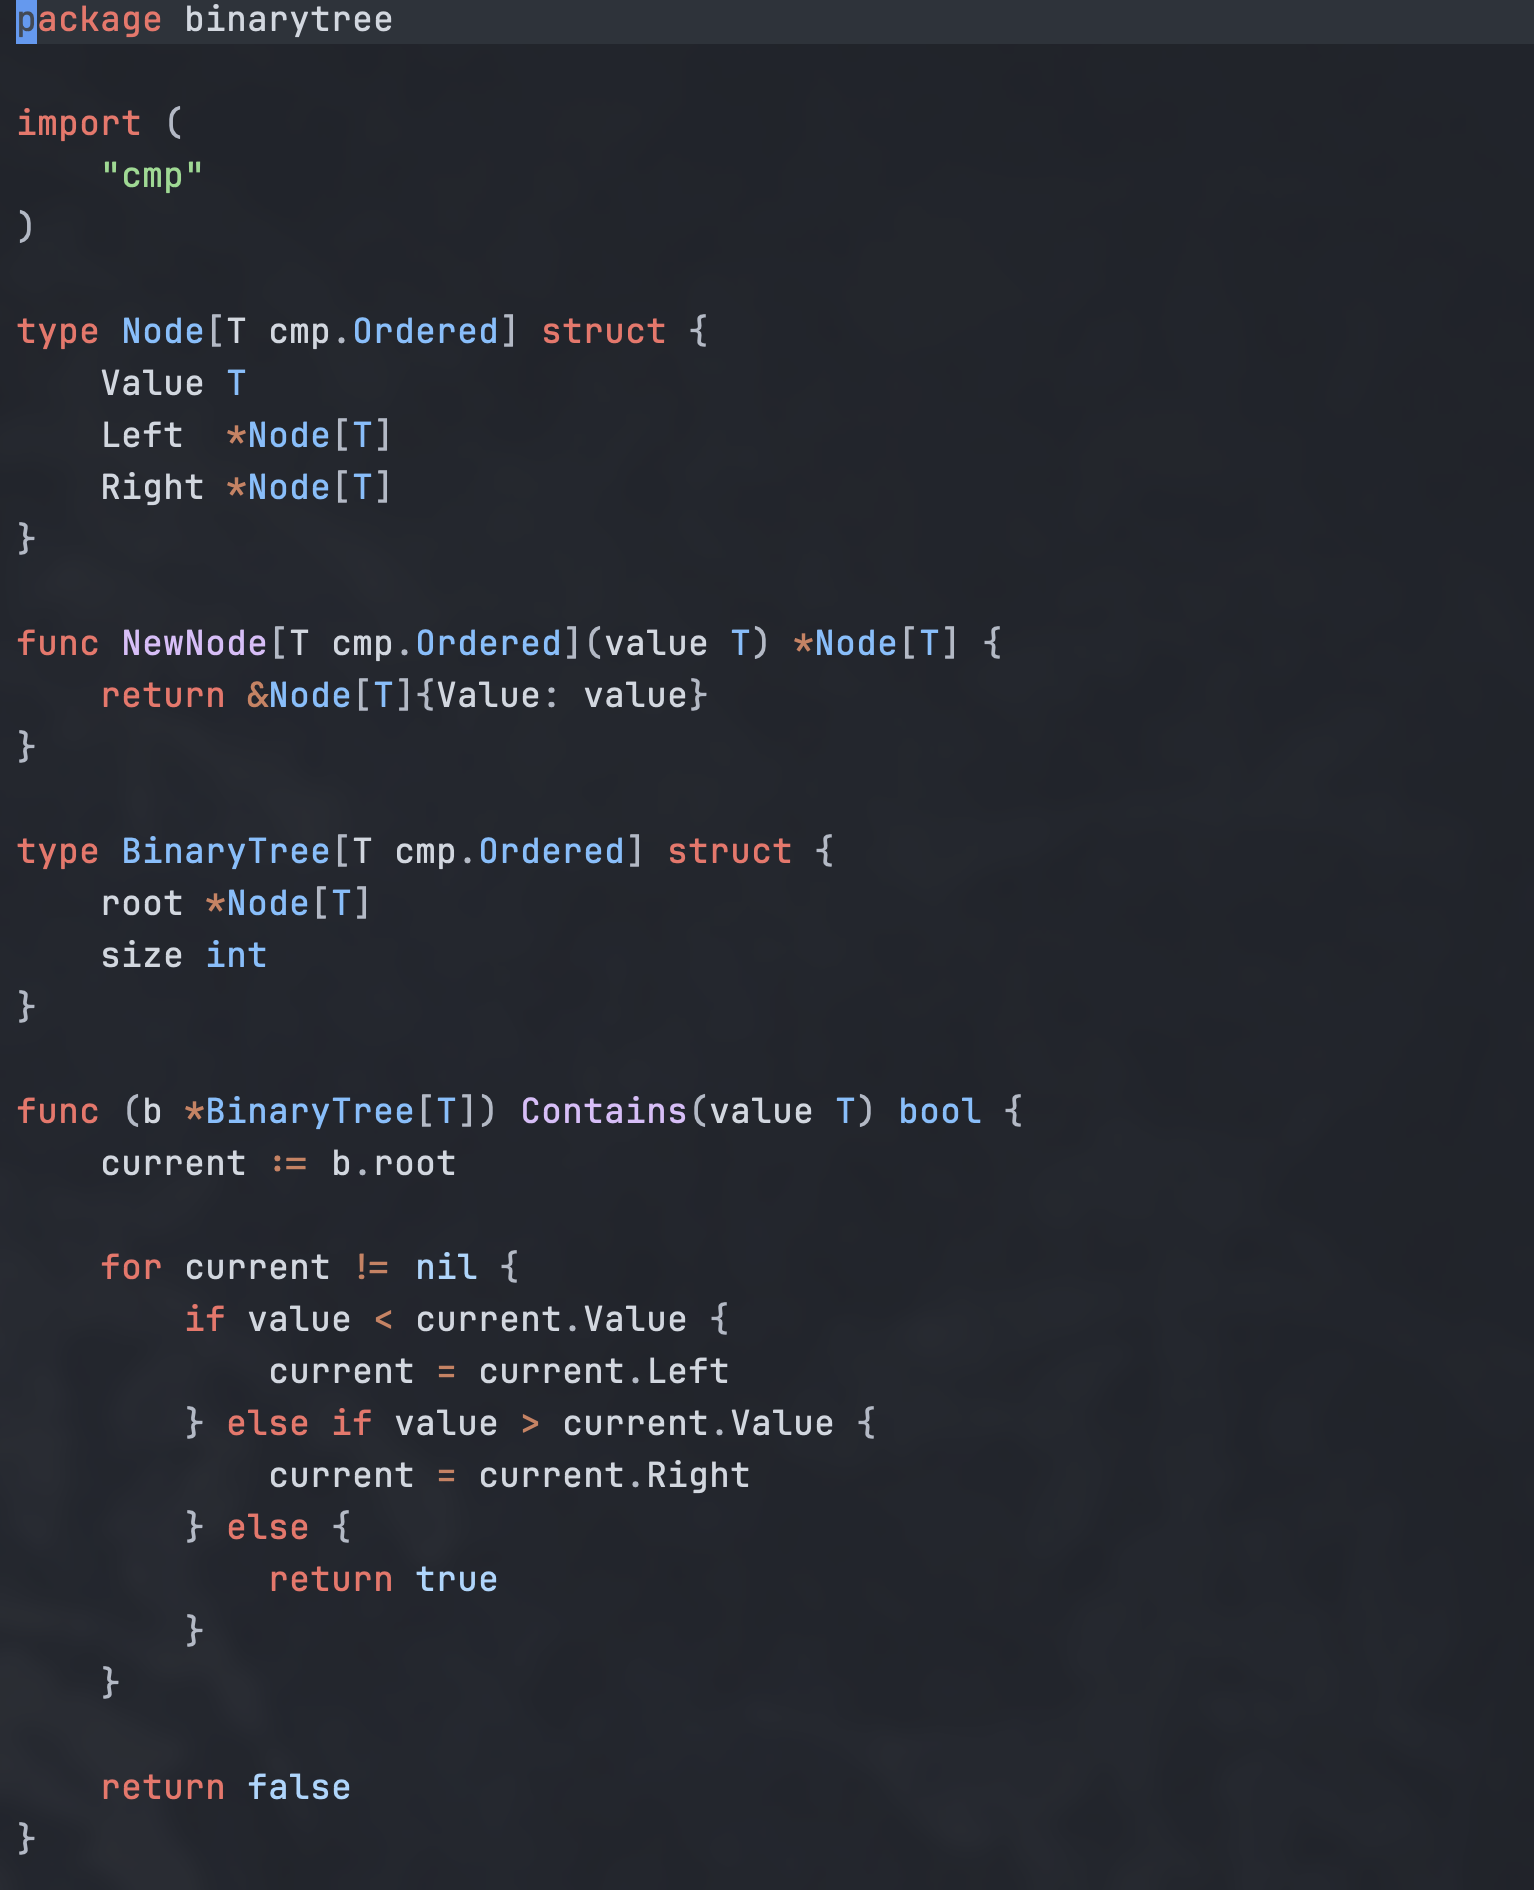
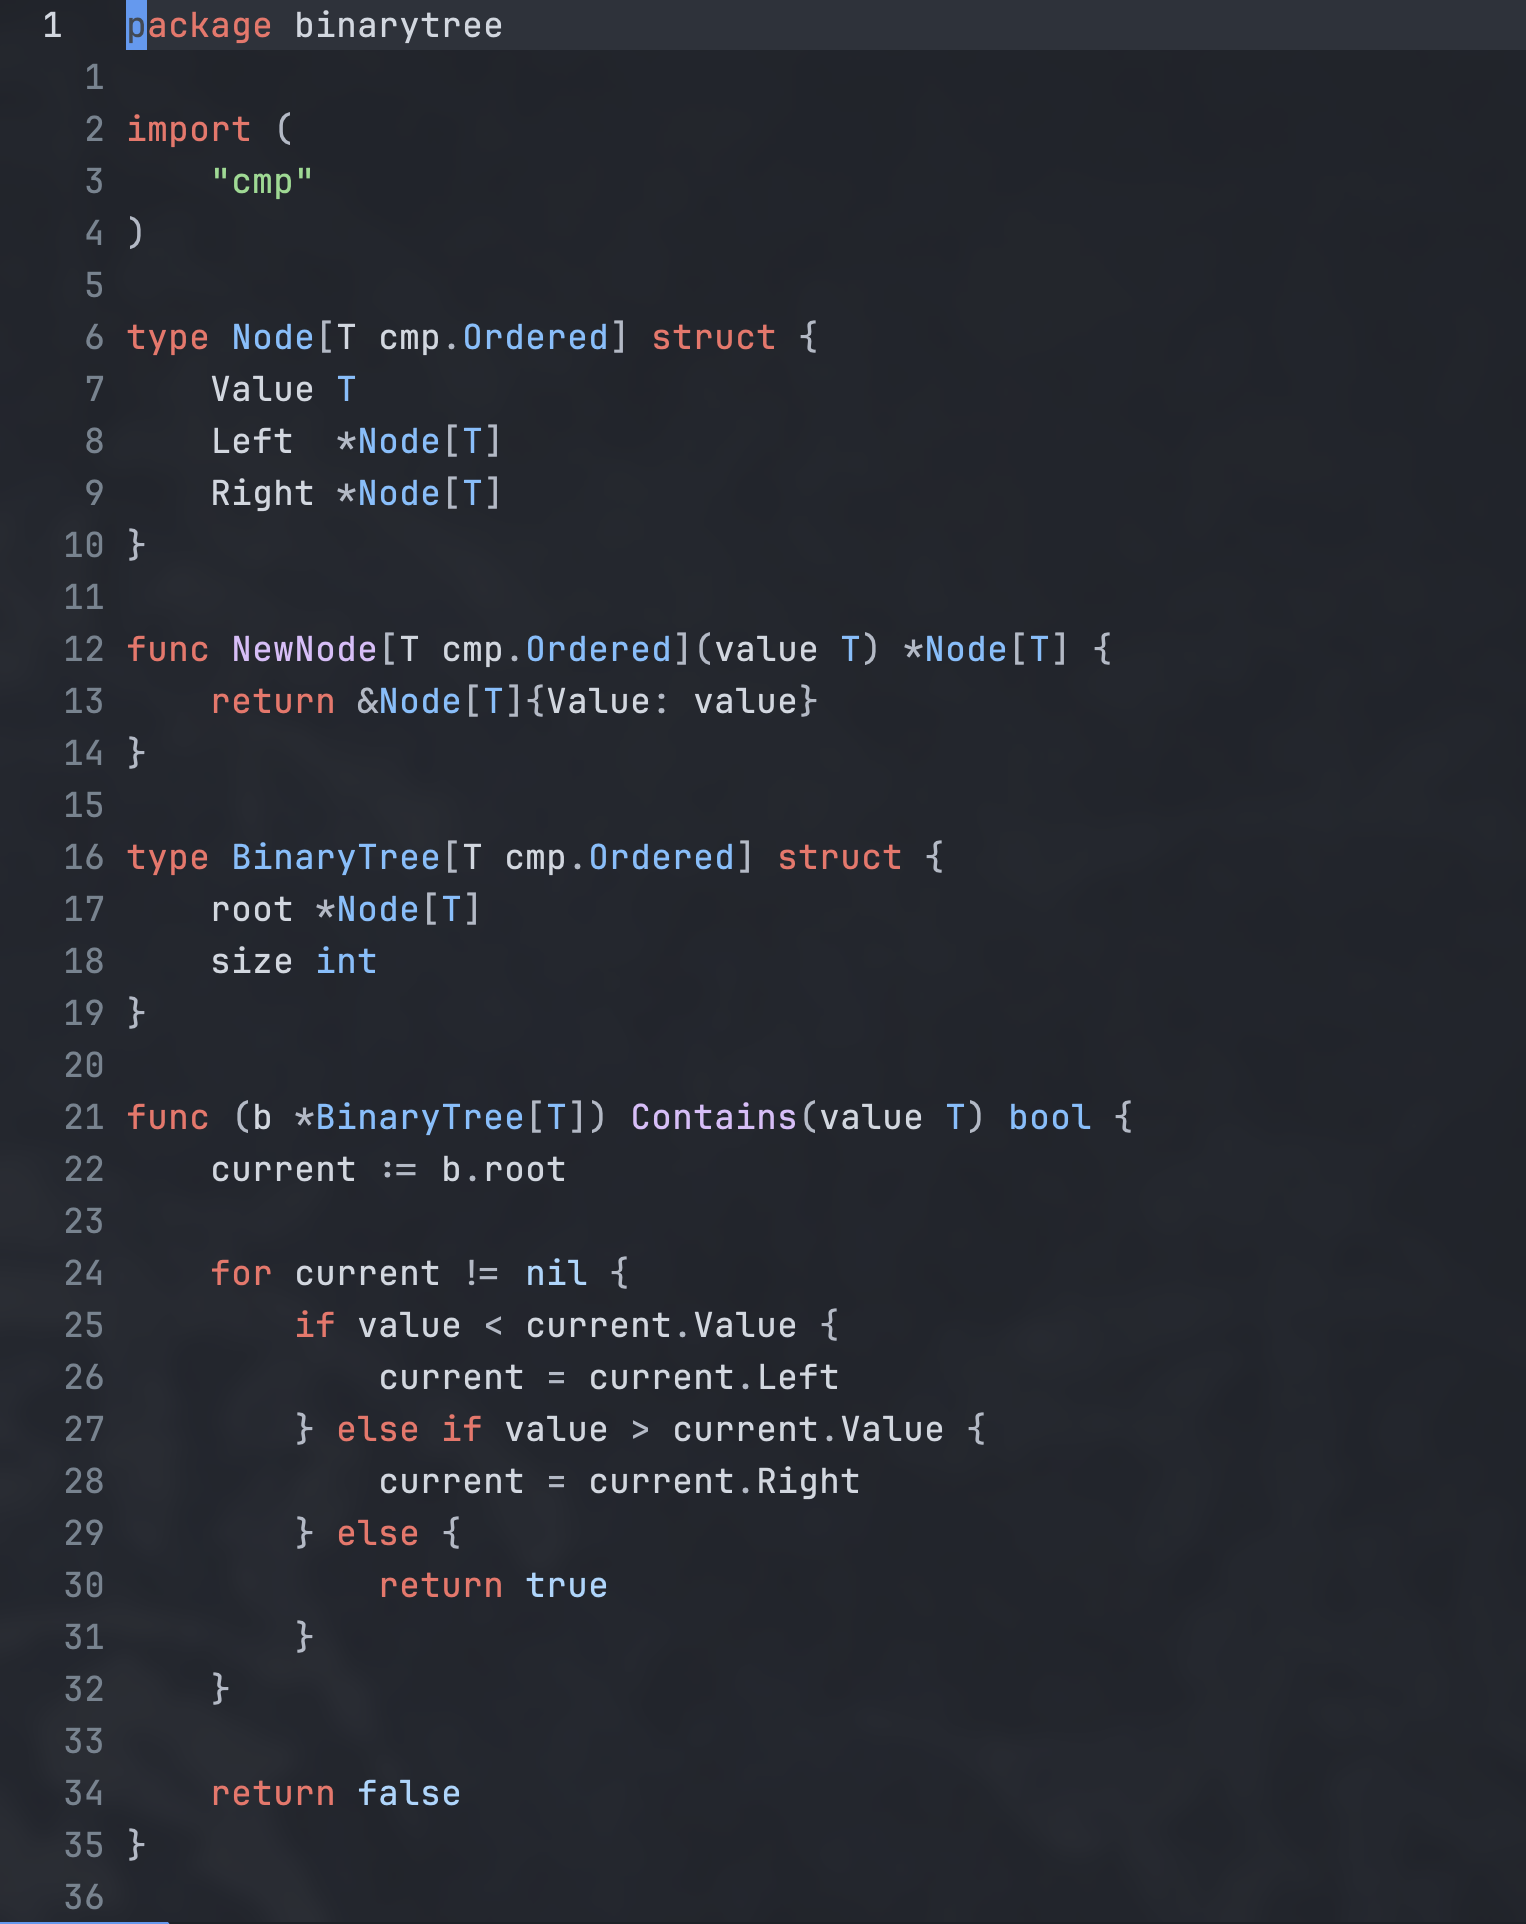
chore(assets): updated screenschots

diff --git a/README.md b/README.md
@@ -5,8 +5,9 @@ A lua port of the nikso theme for [VSCode](https://github.com/thenikso/nikso-vsc
 ## Screenshots
 
 <div align="center">
-  <h3>Lua</h3><img src="https://github.com/tommarien/github-plus.nvim/blob/main/assets/lua.png" alt="nightfox" style="border-radius:1%" />
-  <h3>Go</h3><img src="https://github.com/tommarien/github-plus.nvim/blob/main/assets/go.png" alt="dayfox" style="border-radius:1%" />
+  <h3>Lua</h3><img src="https://github.com/tommarien/github-plus.nvim/blob/main/assets/lua.png" alt="lua" style="border-radius:1%" />
+  <h3>Go</h3><img src="https://github.com/tommarien/github-plus.nvim/blob/main/assets/go.png" alt="go" style="border-radius:1%" />
+  <h3>TypeScript</h3><img src="https://github.com/tommarien/github-plus.nvim/blob/main/assets/typescript.png" alt="ts" style="border-radius:1%" />
 </div>
 
 ## Installation
